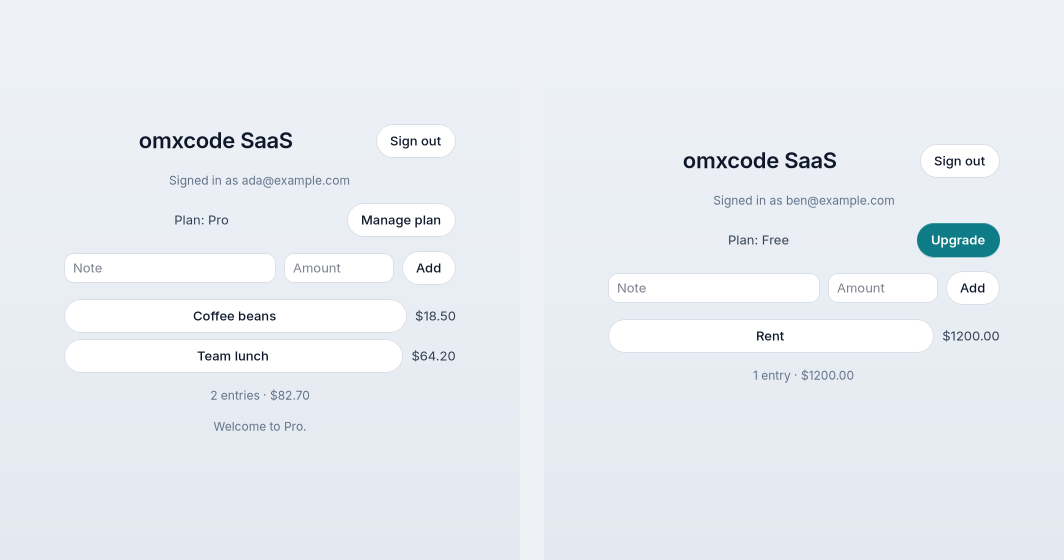
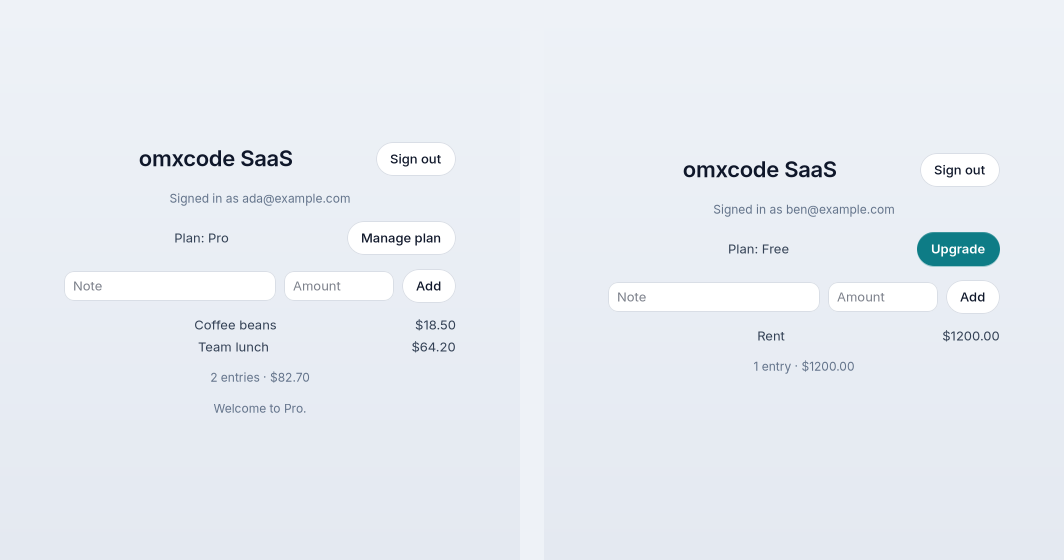
Goal 57 review round 1: browser-bound OAuth state, cross-origin cookie writes refused, invites never replace each other, body caps and a return read-back budget, subscription-mode Pro only, deleted subscriptions final, loopback hardening (lossy UTF-8, close-on-exec), waitfor finds text, stricter M4 

diff --git a/docs/gallery/index.html b/docs/gallery/index.html
@@ -178,7 +178,7 @@ footer a { color: var(--ink2); }
     <div class="kind">Sign-in and payments</div>
     <h3>SaaS blocks</h3>
     <p class="line">Sign in with Google, a tenant and SQLite file of your own, Stripe checkout and its webhooks: SaaS building blocks written in Mojo, server and app.</p>
-    <div class="plats"><span class="ok"><i></i><b>Linux</b> runs</span><span class="am"><i></i><b>Mac</b> coming</span></div>
+    <div class="plats"><span class="ok"><i></i><b>Linux</b> runs</span><span class="ok"><i></i><b>Mac</b> runs</span></div>
     <div class="get"><a class="dl" href="https://github.com/abhisheksreesaila/omxcode/releases/download/gallery-apps/saas-linux-x86_64.tar.gz" download><b>Download for Linux</b></a></div><p class="needs">Its server needs a Google client and Stripe test keys (docs/saas.md)</p>
     <a class="src" href="https://github.com/abhisheksreesaila/omxcode/tree/main/examples/saas">examples/saas</a>
   </div>

diff --git a/scripts/gallery_page.py b/scripts/gallery_page.py
@@ -61,7 +61,7 @@ APPS = [
          src="examples/widgets"),
     dict(name="SaaS blocks", app="saas", kind="Sign-in and payments",
          line="Sign in with Google, a tenant and SQLite file of your own, Stripe checkout and its webhooks: SaaS building blocks written in Mojo, server and app.",
-         runs=[("Linux", "ok"), ("Mac", "soon")], get=["Linux"], needs="Its server needs a Google client and Stripe test keys (docs/saas.md)",
+         runs=[("Linux", "ok"), ("Mac", "ok")], get=["Linux"], needs="Its server needs a Google client and Stripe test keys (docs/saas.md)",
          shots=[("img/saas.png", "Linux: ada on Pro, ben on Free")], src="examples/saas"),
 ]
 

diff --git a/docs/goals/57-check.py b/docs/goals/57-check.py
@@ -467,7 +467,7 @@ def m4():
         r = run([str(APP)], 600, {"MOJOUI_TEST": steps, "MOJOUI_OPENER": str(opener), "SAAS_SERVER": srv.base, "MOJOUI_SHOT": str(shot), "MOJOUI_WINDOW": "900x700"})
         out = r.stdout + r.stderr
         (OUT / "m4.out").write_text(out)
-        for want in ("Signed in as ada@example.com", "Pro"):
+        for want in ("Signed in as ada@example.com", "Plan: Pro"):
             if not re.search(rf"^LABEL:? .*{re.escape(want)}", out, re.M):
                 return False, f"no label `{want}` (build/g57/m4.out; browser saw {seen})"
         tenants = list((srv.data / "tenants").glob("*.db"))

diff --git a/docs/journal.md b/docs/journal.md
@@ -1173,3 +1173,5 @@ GTK's `open_url` with `$MOJOUI_OPENER`, `waitfor:` (buttons only). Contract: GOA
 - M5: scripts/saas_keys.sh (wizard: Google project, consent screen with the owner as test user, a Desktop app client, a Stripe test key refused unless sk_test_, the Pro price made over Stripe's API or by hand, then M5). No key file here: M5 BLOCKED as designed. Never read the file.
 - M6: docs/saas.md (every fh-saas module → its mojoui piece, ✅/🟡/❌: email, jobs, migrations, logging ❌); five rows in docs/components.md via scripts/components.py; scripts/saas_shot.py (two real runs against the stand-ins); looked at docs/gallery/img/saas.png: ada on Pro (Manage plan, Coffee beans $18.50, Team lunch $64.20) beside ben on Free (Upgrade, Rent $1200.00), Liquid light, no timing text; the two columns sit at slightly different heights (each window centres its own content): left as is. scripts/package.sh saas linux carries saas-server, Flare's shims and their libraries (a first run died on `grep -v` with nothing to drop under pipefail); the packaged server started with a bare environment and redirected to Google; scripts/bare_run.py saas: ok. Gallery card via scripts/gallery_page.py (its download link needs the owner to upload dist/saas-linux-x86_64.tar.gz to the gallery-apps release).
 - M8 (the Mac, D-5708): first Mac build of a Flare program here. Failures in order: mxlink.sh's GNU `-rpath=` flag (ld64 refuses), bash 3.2's "unbound" empty array, Flare looking for libflare_tls.so where flare_ffi.sh had built .dylib; each fixed in the scripts (D-5723). The cross-build needed six libSystem stub symbols. Then M2 and M3 PASS on the Mac. The AppKit host had no waitfor: step, always took focus and wrote reports to ~/Desktop: waitfor:, MOJOUI_OFFSCREEN=1 and MOJOUI_REPORT_DIR added (D-5722). M8 PASS. Looked at build/g57/m8-mac.png: right state, but captions wrapped mid-line ("Signed in as / ada@…") and the 520 pt window left white strips beside the 440 pt column: captions .fill(), window 440x600; looked again: clean, a thin white band above and below the stack remains (the AppKit window's background outside the Liquid page: a host-level detail).
+- Full run 1 (before review fixes): M0–M4, M6–M8 PASS, M5 BLOCKED (build/g57/full-1.txt).
+- Review round 1: reviewer NEEDS WORK (loopback read raw socket bytes as UTF-8; its socket leaked into the browser we start; M4's "Pro" matched any label; saas.sh could pass on an old binary; dead entry buttons; docs), security auditor NEEDS WORK, no critical/high (sign-in CSRF: state not bound to the browser; invites replacing each other and joining silently; unauthenticated stalls; Pro from any paid session; late subscription events; uneven CSRF; wizard key on curl's command line; world-readable data). Fixed: D-5724–D-5727 and the items in docs/saas.md's "Known limits" that stay open (accept page for invites, desktop confirm page, per-IP limits, provider calls off the lock, GET /logout kept by contract). Proved on the live server (build/g57/probe_fixes.py): a callback in another browser → 400 with no cookie; a cross-origin cookie write → 401 (same origin 201); a 2 MB webhook → 413 with nosniff. waitfor: now finds text too (GTK and AppKit), so entry rows are text. M2–M4 PASS again. Looked at docs/gallery/img/saas.png again after the retake: ada on Pro (Coffee beans, Team lunch), ben on Free (Rent), text rows.

diff --git a/docs/decisions.md b/docs/decisions.md
@@ -1263,3 +1263,7 @@ One line per fork: `D-nn · chose X over Y · why · reversible?`
 - D-5721 · M8's stand-ins run on the Mac beside the server (the checker itself runs there: `57-check.py M2 M3 M8app` over SSH), not on Linux over Tailscale · nothing listens beyond 127.0.0.1 on either machine, and the Mac run proves the same proofs as Linux, unchanged; m8 on Linux rsyncs the sources to ~/omxcode-g57 (no build/, .pixi or .git), runs that, and copies the app's picture back · yes
 - D-5722 · the AppKit host gains `waitfor:` (as GTK's), MOJOUI_OFFSCREEN=1 (an accessory app, its window transparent, behind, never focused: pictures still drawn by cacheDisplayInRect:) and MOJOUI_REPORT_DIR · owner: no windows that steal the screen when an offscreen path exists, and work only in ~/omxcode-g57 (reports went to ~/Desktop) · yes
 - D-5723 · Flare programs build on the Mac: mxlink.sh links no codecs there, mojo_flare.sh uses @executable_path and bash-3.2-safe arrays, flare_ffi.sh names the shims .so (Flare dlopens libflare_*.so on macOS too); the Mac's libSystem stub gains getentropy, bind, listen, accept, posix_spawnp, waitpid (the cross-build) · scripts had only ever run on Linux (goal 50: "Flare targets macOS too, not built here yet") · yes
+- D-5724 · M4's proof looks for the label `Plan: Pro`, not any label holding "Pro" (reviewer), logged before the edit · a stricter proof, not a lower one: "Upgrade to Pro" would have passed it; m8_app already reads `Plan: Pro` · yes
+- D-5725 · invites still join a new person on first sign-in (no accept step), but no longer replace each other: keyed by (email, tenant), plain INSERT, the oldest wins · M2's contract is "an admin's invite lets a second person join as viewer" by signing in; the auditor's pre-invite attack (an attacker invites cfo@victim.co before they sign up) stays open until an accept page exists: the owner's call, listed in the report · yes
+- D-5726 · the web sign-in's state is bound to the browser that started it: /login sets an HttpOnly SameSite=Lax `saas_state` cookie and /auth/callback refuses a state that doesn't match it (constant time), then clears it (auditor: sign-in CSRF, RFC 6749 §10.12) · the desktop flow keeps its own binding (the app's loopback checks its state) · yes
+- D-5727 · cheap limits, not a rate limiter: request bodies ≤ 64 KB (the webhook ≤ 1 MB), /billing/return at most 30 Stripe read-backs a minute for the whole server, expired sessions and desktop codes purged with OAuth states; provider and Stripe calls still run under the one lock (D-5714) · parity first; a per-IP limiter and calls off the lock are the next step, said so in docs/saas.md · yes

diff --git a/docs/saas.md b/docs/saas.md
@@ -2,7 +2,9 @@
 
 fh-saas (Python, FastHTML) is being phased out; its jobs move into Mojo modules on `mojoui.serve` (Flare). This page maps
 each fh-saas module to the mojoui piece that does its job now, honestly: ✅ done and checked, 🟡 part of it, ❌ not yet.
-Checked means `docs/goals/57-check.py` (against its Google and Stripe stand-ins) or a module test ran it on Linux.
+Checked means `docs/goals/57-check.py` (against its Google and Stripe stand-ins) or a module test ran it, on Linux and on a
+Mac (M8). Against the real Google and Stripe it is proved only once the owner's keys exist (M5 is BLOCKED until then):
+`email_verified` and the redirect URI are checked against the stand-in, not yet against Google.
 
 The demo: `examples/saas/server.mojo` (the server, routes only) and `examples/saas/app.mojo` (a native GTK client).
 
@@ -28,6 +30,18 @@ The demo: `examples/saas/server.mojo` (the server, routes only) and `examples/sa
   expiring values), PKCE: plain Mojo on `mojoui.hash` so every host has it (D-5709).
 - `mojoui.browser`: open a page in the system browser as an effect (`App.opens`), GTK and AppKit (D-5718).
 - `mojoui.signin`: the desktop half of sign-in: a loopback listener (libc sockets) and the PKCE verifier (D-5720).
+
+## Known limits (read before real users)
+- Every request is answered under one lock (`mojoui.serve`), and the Google and Stripe calls run inside it (D-5714): a
+  slow provider stalls everyone for up to 20–30 s. Bodies are capped (64 KB; the webhook 1 MB) and `/billing/return`
+  makes at most 30 Stripe read-backs a minute (D-5727); there is no per-IP rate limit on `/login` or `/api/token` yet.
+- Invites join a person who hasn't signed in yet, on their first sign-in, without asking (D-5725): an admin of any tenant
+  can pre-invite an address. An accept page is the fix.
+- A desktop sign-in's one-time code shows in the browser's address bar for up to 60 s (RFC 8252's known phishing risk);
+  a "sign in to the desktop app?" confirm page is the fix.
+- `GET /logout` still works (the contract's), so a page elsewhere can sign someone out; the app itself signs out by POST.
+- Plans follow Stripe's events; a paid session counts only in subscription mode with a subscription (not a Payment
+  Link's one-off payment), and a deleted subscription is final (a late `updated` event can't revive it).
 
 ## Running it
 ```
